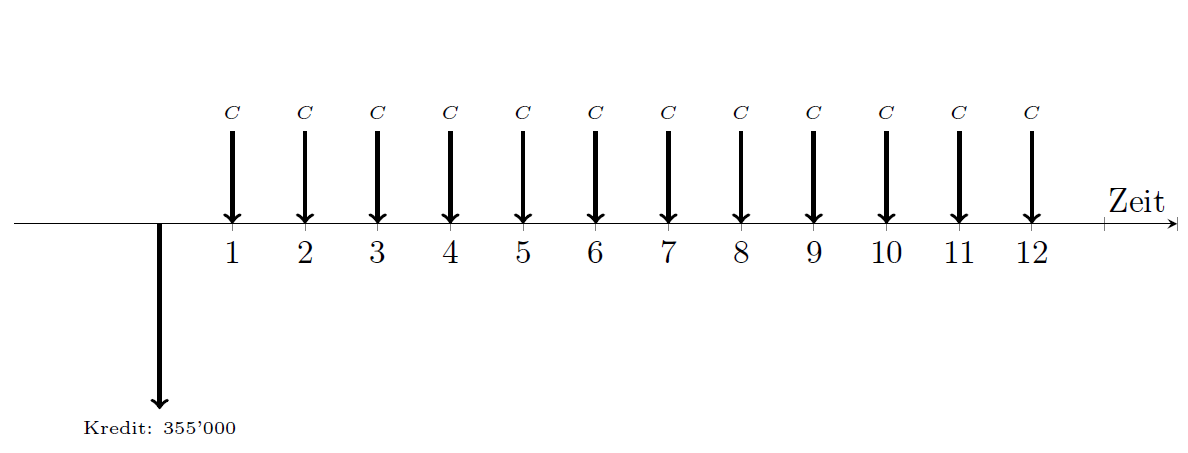
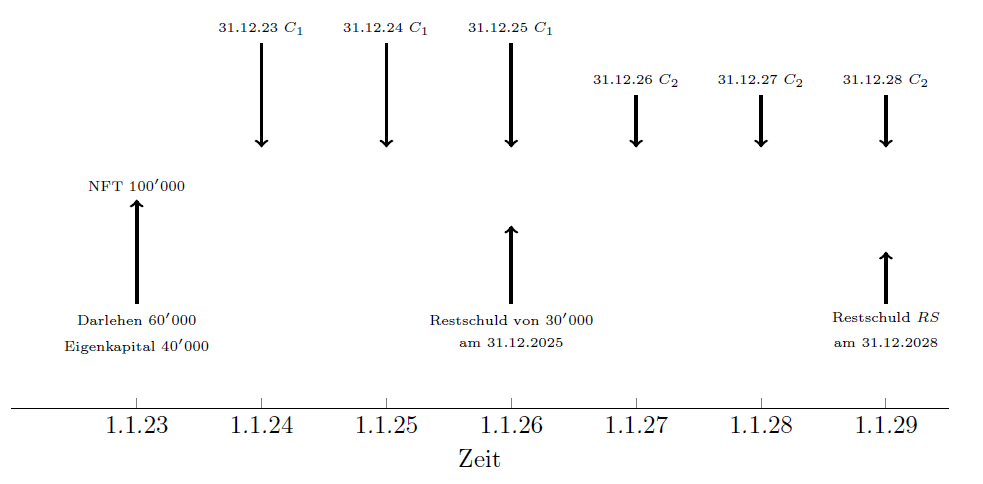
2022 A Aufgabe 1 b1 - b4

diff --git a/Mathe_A/2022/aufgaben/1.tex b/Mathe_A/2022/aufgaben/1.tex
@@ -336,27 +336,89 @@ Erlös zurückzahlen.
 \begin{mdframed}
 \underline{\textbf{Vorgehensweise:}}
 \begin{enumerate}
-\item[(b1)] Füge den Kredit und die Raten zum Zeitstrahl hinzu.
-\item[(b2)] Bestimme die Höhe der Ratenzahlung $ C $.
-\item[(b3)] Ergänze den Lottogewinn und berechne die Restschuld.
-\item[(b4)] Bestimme die restliche Laufzeit mit Hilfe der Restschuld.
-\item[(b5)] Bestimme die letzte Rate.
+\item[(b1)] Füge die Ereignisse und Mittelflüsse zum Zeitstrahl hinzu.
+\item[(b2)] Bestimme die Höhe der Zahlung $C_1$ für das Ende der Jahre 2023 - 2025.
+\item[(b3)] Bestimme die Restschuld zum Ende des Jahres 2028.
+\item[(b4)] Bestimme den Verkaufswert bei jährlichem Wertverlust von $3 \%$.
 \end{enumerate}
 \end{mdframed}
 
 \newpage
-\underline{(b1) Füge den Kredit und die Raten zum Zeitstrahl hinzu}\\
+\underline{(b1) Füge die Ereignisse und Mittelflüsse zum Zeitstrahl hinzu}\\
 \begin{center}
-	\includegraphics[scale=0.55]{pictures/zeitstrahl_1_b_filled_1}
+	\includegraphics[scale=0.65]{pictures/zeitstrahl_1_b_filled_1}
 \end{center}
 
-\underline{(b2) Bestimme die Höhe der Ratenzahlung $ C $}\\
+\underline{(b2) Bestimme die Höhe der Zahlung $C_1$ für das Ende der Jahre 2023 - 2025}\\
+Zunächst bestimmen wir die Restschuld $RS_{\mathrm{31.12.2025}}^{\mathrm{k.Z.}}$ am 31.12.2025, falls keine Zahlungen $C_1$ getätigt werden:
+\begin{align*}
+RS_{\mathrm{31.12.2025}}^{\mathrm{k.Z.}}
+	=
+	RS_{\mathrm{1.1.2023}}
+	(1+ 5\% )^3
+	=
+	60000 \cdot  1.05^3 
+	=
+	69457.50 \ \textrm{(Schweizer Franken)}.
+\end{align*}
+Zum 31.12.2025 soll die tatsächliche Restschuld noch $30000$ Schweizer Franken betragen. Damit müssen die konstanten Zahlungen $C_1$ zum Ende der Jahre 2023, 2024 und 2025 den Betrag
+\begin{align*}
+	RS_{\mathrm{31.12.2025}}^{\mathrm{k.Z.}}
+	- 30000
+	= 39457.5\ \textrm{(Schweizer Franken)}
+\end{align*}
+ergeben. Bei den konstanten Zahlungen $C_1$ handelt es sich um eine dreijährige nachschüssige Rente. Mit dem Endwert erhalten wir:
+\begin{align*}
+	39457.5
+	= C_1 \frac{(1 + 5 \%)^3 -1 }{5 \%}
+	\ \Leftrightarrow \
+	C_1 = 39457.5 \cdot \frac{5 \%}{(1 + 5 \%)^3 -1}
+	\approx
+	12516.25 \ \textrm{(Schweizer Franken)}
+\end{align*}
+Damit ist die nachschüssige Zahlung der ersten drei Jahre 
+$12516.25$ Schweizer Franken.\\
+\\
+\underline{(b3) Bestimme die Restschuld zum Ende des Jahres 2028}\\
+Wenn keine Zahlungen von am Ende der Jahre 2026 - 2028 getätigt werden, ist die Restschuld zum 31.12.2028 gegeben durch:
+\begin{align*}
+	RS_{\mathrm{31.12.2028}}^{\mathrm{k.Z.}}
+	=
+	RS_{\mathrm{1.1.2026}} (1 + 5\%)^3
+	=
+	30000 \cdot 1.05^3
+	=
+	34728.75 \ \textrm{(Schweizer Franken)}.
+\end{align*}
+Bei den konstanten Zahlungen in Höhe von  $C_2 = 5000$ handelt es sich um eine dreijährige nachschüssige Rente. Mit der Endwertformel erhalten wir damit die tatsächliche Restschuld am 31.12.2028 durch:
+\begin{align*}
+	RS_{\mathrm{31.12.2028}}
+	&= 
+	34728.75 - 
+	5000 
+	\cdot 
+	\frac{(1+ 5 \%)^3 -1}{5 \%}
+	=
+	34728.75 - 
+	5000 
+	\cdot 
+	\frac{(1.05)^3 -1}{0.05}\\
+	&=
+	18966.25 \ \textrm{(Schweizer Franken)}.
+\end{align*}
 
 
-\underline{(b4) Bestimme die restliche Laufzeit mit Hilfe der Restschuld}\\
-
-\underline{(b5) Bestimme die letzte Rate}\\
-
+\underline{(b4) Bestimme den Verkaufswert bei jährlichem Wertverlust von $3 \%$}\\
+Sams NFT Kunstwerk hat bei jährlichem Wertverlust von $3 \%$ am 31.12.2028 einen Verkaufswert von 
+\begin{align*}
+	VW_{\mathrm{31.12.2028}}
+	=
+	100000 (1- 3 \%)^6
+	=
+	100000 \cdot 0.97^6
+	= 83297.20 \ \textrm{(Schweizer Franken)}.
+\end{align*}
+Damit gilt $VW_{\mathrm{31.12.2028}} > RS_{\mathrm{31.12.2028}}$. Also ist der Verkaufswert trotz Wertverlust von $3 \%$ größer als die Restschuld zum 31.12.2028 und Sam kann seine Schulden begleichen.
 \newpage
 \subsection*{\aufgabe{c}{10}}
 Die Alterung der Bevölkerung hat bedeutende ökonomische und soziale Auswirkungen. Deshalb ist es für die Politik von hoher Bedeutung, ein umfassendes Verständnis davon zu haben, wie sich das Bevölkerungswachstum über die nächsten 50 Jahre entwickeln wird.
